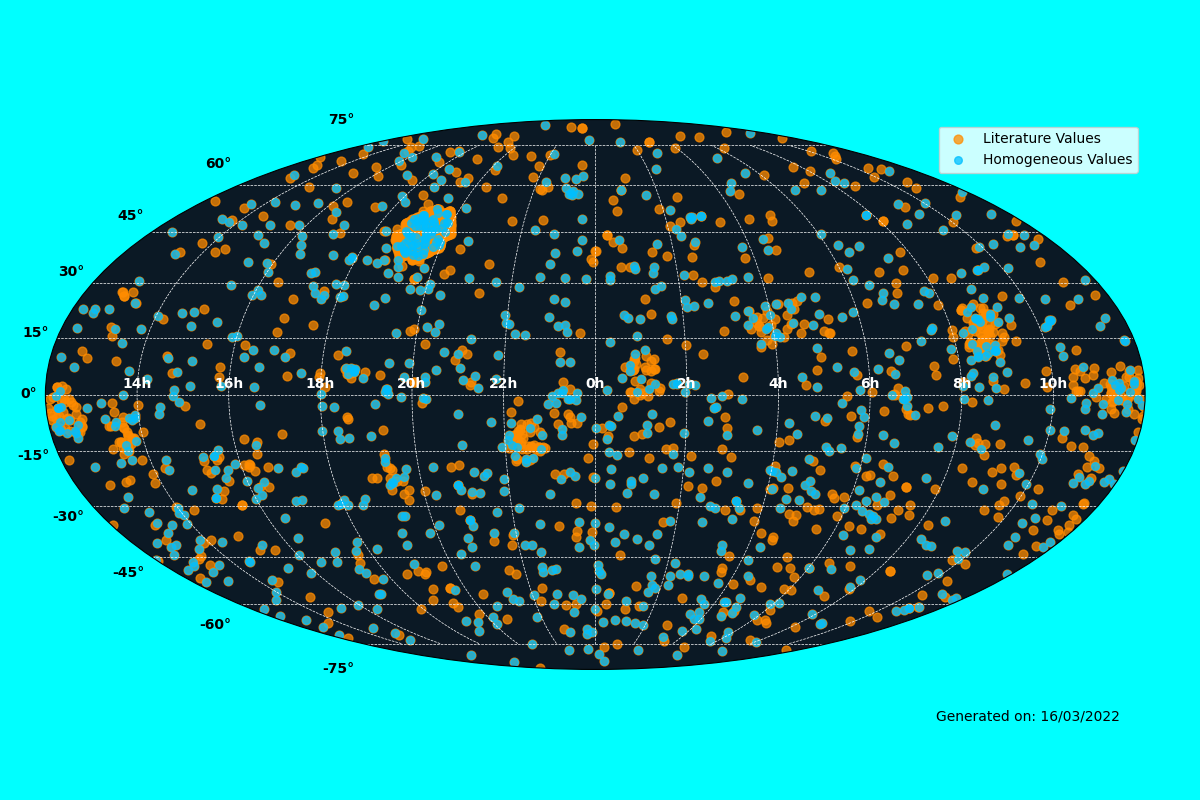
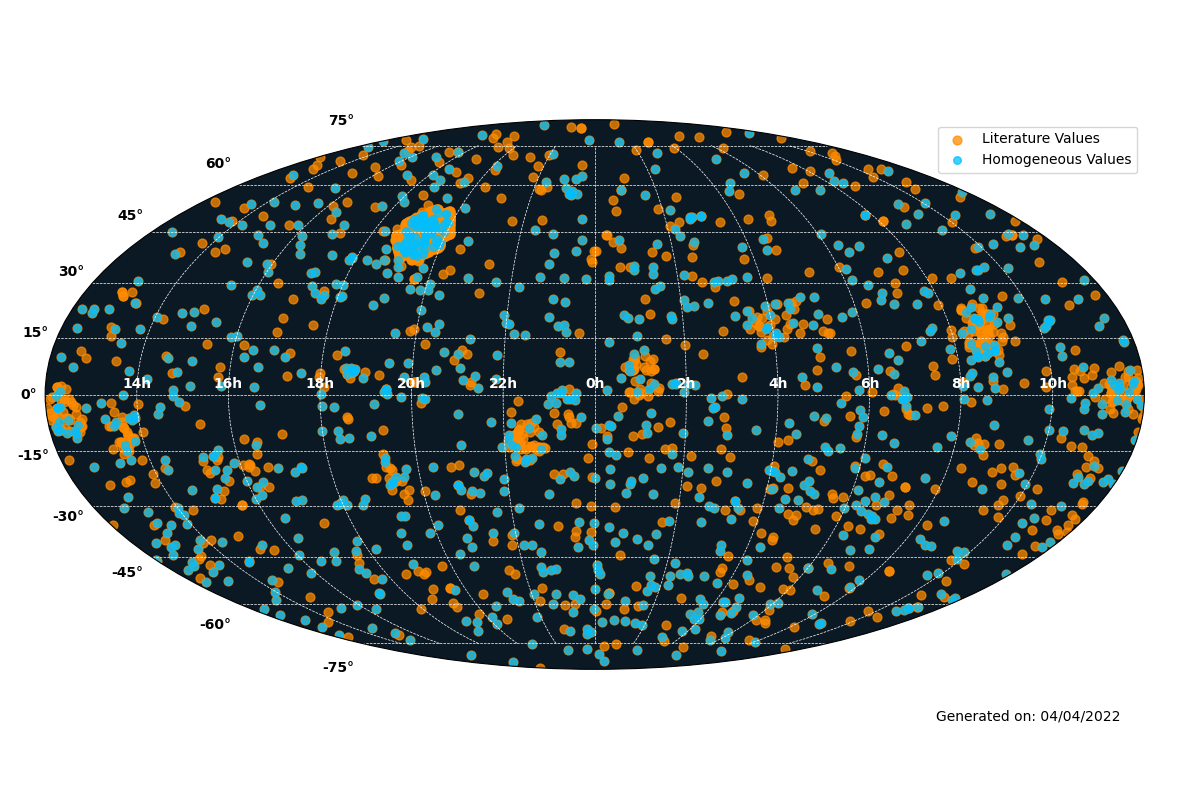
Updating missing planet-hosts in Septembre 2022

diff --git a/NEWCODE/sweetcatbase.py b/NEWCODE/sweetcatbase.py
@@ -134,7 +134,7 @@ def downloadNasaExoplanetNew():
 def check_SW_coordinates(SCcsv, EXOcsv, NASAcsv):
   SC = pd.read_csv(SCcsv, dtype=dtype_SW)
   exo = pd.read_csv(EXOcsv)
-  exo = exo[(exo.detection_type == 'Radial Velocity') | (exo.detection_type == 'Primary Transit') | (exo.detection_type == 'Astrometry')]
+  exo = exo[(exo.detection_type == 'Radial Velocity') | (exo.detection_type == 'Primary Transit') | (exo.detection_type == 'Astrometry') | (exo.detection_type == 'Default')]
   exo = exo.reset_index()
   nasa = pd.read_csv(NASAcsv)
 
@@ -175,6 +175,8 @@ def check_SW_coordinates(SCcsv, EXOcsv, NASAcsv):
         #print(sep_eu, np.nanmin(sep))
         if sep_eu > np.min(sep):
           print(i,SC.Name[i], sep_eu, ind[0], exo.name[ind[0]], sepeu[indeu[0]], exo.name[indeu[0]])
+        if sepeu[indeu[0]] > 0.01: 
+          print("OIOIOI\n",i,SC.Name[i], sep_eu, ind[0], exo.name[ind[0]], sepeu[indeu[0]], exo.name[indeu[0]])
 
   #check NASA
   print("\n\nChecking NASA:\n")
@@ -191,6 +193,8 @@ def check_SW_coordinates(SCcsv, EXOcsv, NASAcsv):
         #print(sep_nasa, np.nanmin(sep))
         if sep_nasa > np.min(sep):
           print(i,SC.Name[i], sep_nasa, nasa.pl_name[ind[0]], sepnasa[indnasa[0]], nasa.pl_name[indnasa[0]])
+        if sepnasa[indnasa[0]] > 0.01: 
+          print("OIOIOI\n", i,SC.Name[i], sep_nasa, nasa.pl_name[ind[0]], sepnasa[indnasa[0]], nasa.pl_name[indnasa[0]])
 
   #check GAIA_ID coords:
 
@@ -293,6 +297,7 @@ def add_nasa_flag_SC(fileSW):
   for n in range(len(nasanames)):
     sep = coordsnasanames[n].separation(coordSC).arcsecond
     ind = np.where(sep <= np.nanmin(sep))[0]
+    print(ind)
     print(n,len(nasanames), nasanames["star"][n],SC.Name[ind[0]], sep[ind[0]], SC.Database[ind[0]], ind[0], SC.RA_NASA[ind[0]])
     if sep[ind[0]] < 10:
       val = input(colored.green("Accept? ([Y]/N): "))
@@ -316,7 +321,7 @@ def add_nasa_flag_SC(fileSW):
     print(len(droprows))
   nasanames=nasanames.drop(droprows)
   SC.to_csv("update.csv", index=False)
-  nasanames.to_csv("namesnasa_c.txt", index=False, delimiter="\t")
+  nasanames.to_csv("namesnasa_c.txt", index=False, sep="\t", header=False)
 
 
 ### Main program:
@@ -340,13 +345,19 @@ def main():
   #check_missing_SweetCat_ExoEU2(fileSW, "exo.csv")
   #return
 
-##3: Add missing NASA flag (namesnasa.txt):
+#ADD missing and Update file
+
+##3: Check NASA missing:
+  #check_missing_SweetCat_NASA(fileSW, "nasaexo.csv")
+  #return
+
+##4: Add missing NASA flag (namesnasa.txt):
   #add_nasa_flag_SC(fileSW)
   #return
 
-##4: Check NASA missing:
-  #check_missing_SweetCat_NASA(fileSW, "nasaexo.csv")
-  #return
+## use the namesnasa_c and update "update.csv"
+
+## replace update with the dataframe in the end
 
 
 

diff --git a/NEWCODE/webpage_html/create_sweetweb.py b/NEWCODE/webpage_html/create_sweetweb.py
@@ -231,7 +231,7 @@ def plot_sky_SC_chart(SC):
   rah = rah.wrap_at(180*u.degree)
 
   fig = plt.figure(figsize=(12,8))
-  fig.patch.set_facecolor('cyan')
+#  fig.patch.set_facecolor('cyan')
   ax = fig.add_subplot(111, projection="mollweide")
 #  ax.scatter(ra.radian, dec.radian, c="darkorange",s=40, alpha=0.75, cmap=cm.brg, label="SWFlag = 0")
 #  ax.scatter(rah.radian, dech.radian, c="deepskyblue",s=30, alpha=0.75, cmap=cm.brg, label="SWFlag = 1")
@@ -239,6 +239,7 @@ def plot_sky_SC_chart(SC):
   ax.scatter(rah.radian, dech.radian, c="deepskyblue",s=30, alpha=0.75, cmap=cm.brg, label="Homogeneous Values")
   ax.set_xticklabels(['14h','16h','18h','20h','22h','0h','2h','4h','6h','8h','10h'])
   ax.set_facecolor('#0b1925')
+
   ax.grid(color='white', linestyle='--', linewidth=0.5)
   [t.set_color('white') for t in ax.xaxis.get_ticklines()]
   [t.set_color('white') for t in ax.xaxis.get_ticklabels()]
@@ -463,13 +464,13 @@ def main():
   SC_full_load = pd.read_csv(sweet_database, dtype=dtype_SW)
   #create_html_table(SC_full_load)
   #SC_stats(SC_full_load, plot_stats=True)
-  #plot_sky_SC_chart(SC_full_load)
+  plot_sky_SC_chart(SC_full_load)
 
   #plot_histograms_parameters(SC_full_load)
 
   #see in the jupyter notebook (SWEET-CAT_Exoeu_link.ipynb) how to create this file
   #get_planet_propreties(load = True)
-  plot_feh_mass_period_all("data_new.csv")
+  #plot_feh_mass_period_all("data_new.csv")
   return
 
 

diff --git a/NEWCODE/addNewHost.py b/NEWCODE/addNewHost.py
@@ -99,7 +99,7 @@ def get_gaiadr2(name):
 def get_gaia_dr3_id(results_ids):
   for name in results_ids[::-1]:
     #print(name[0])
-    if "Gaia EDR3 " in name[0]:
+    if "Gaia DR3 " in name[0]:
       return name[0].split(" ")[-1]
   return -1
 
